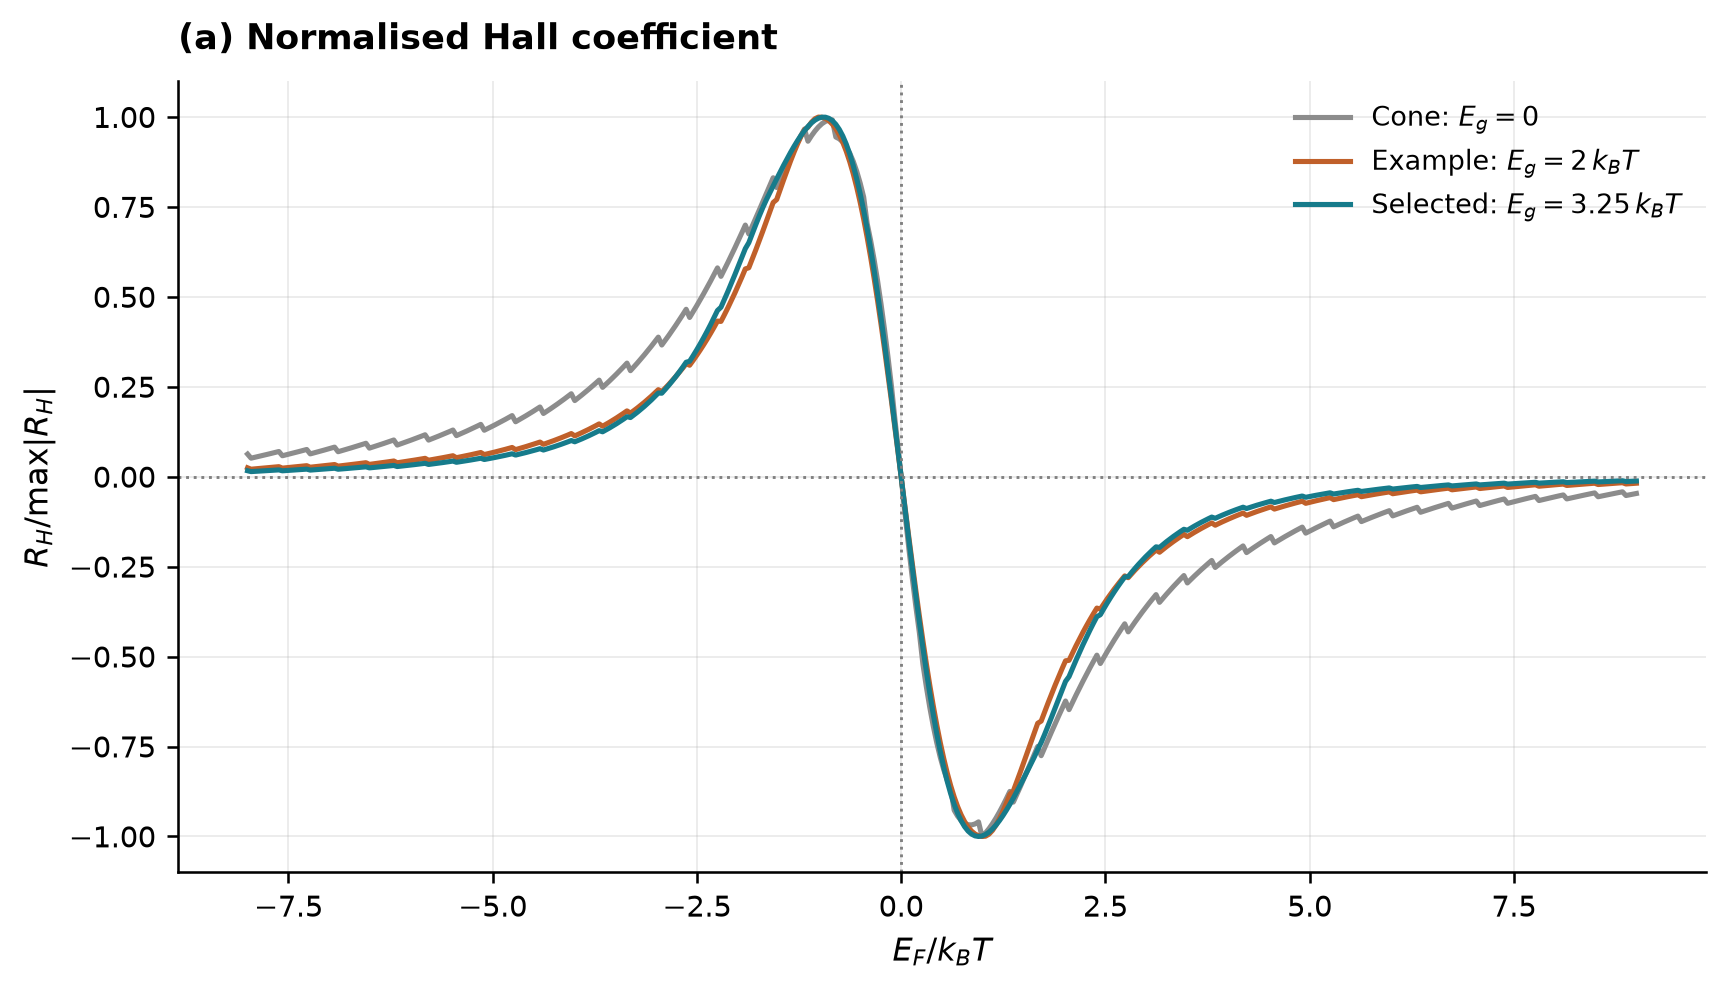
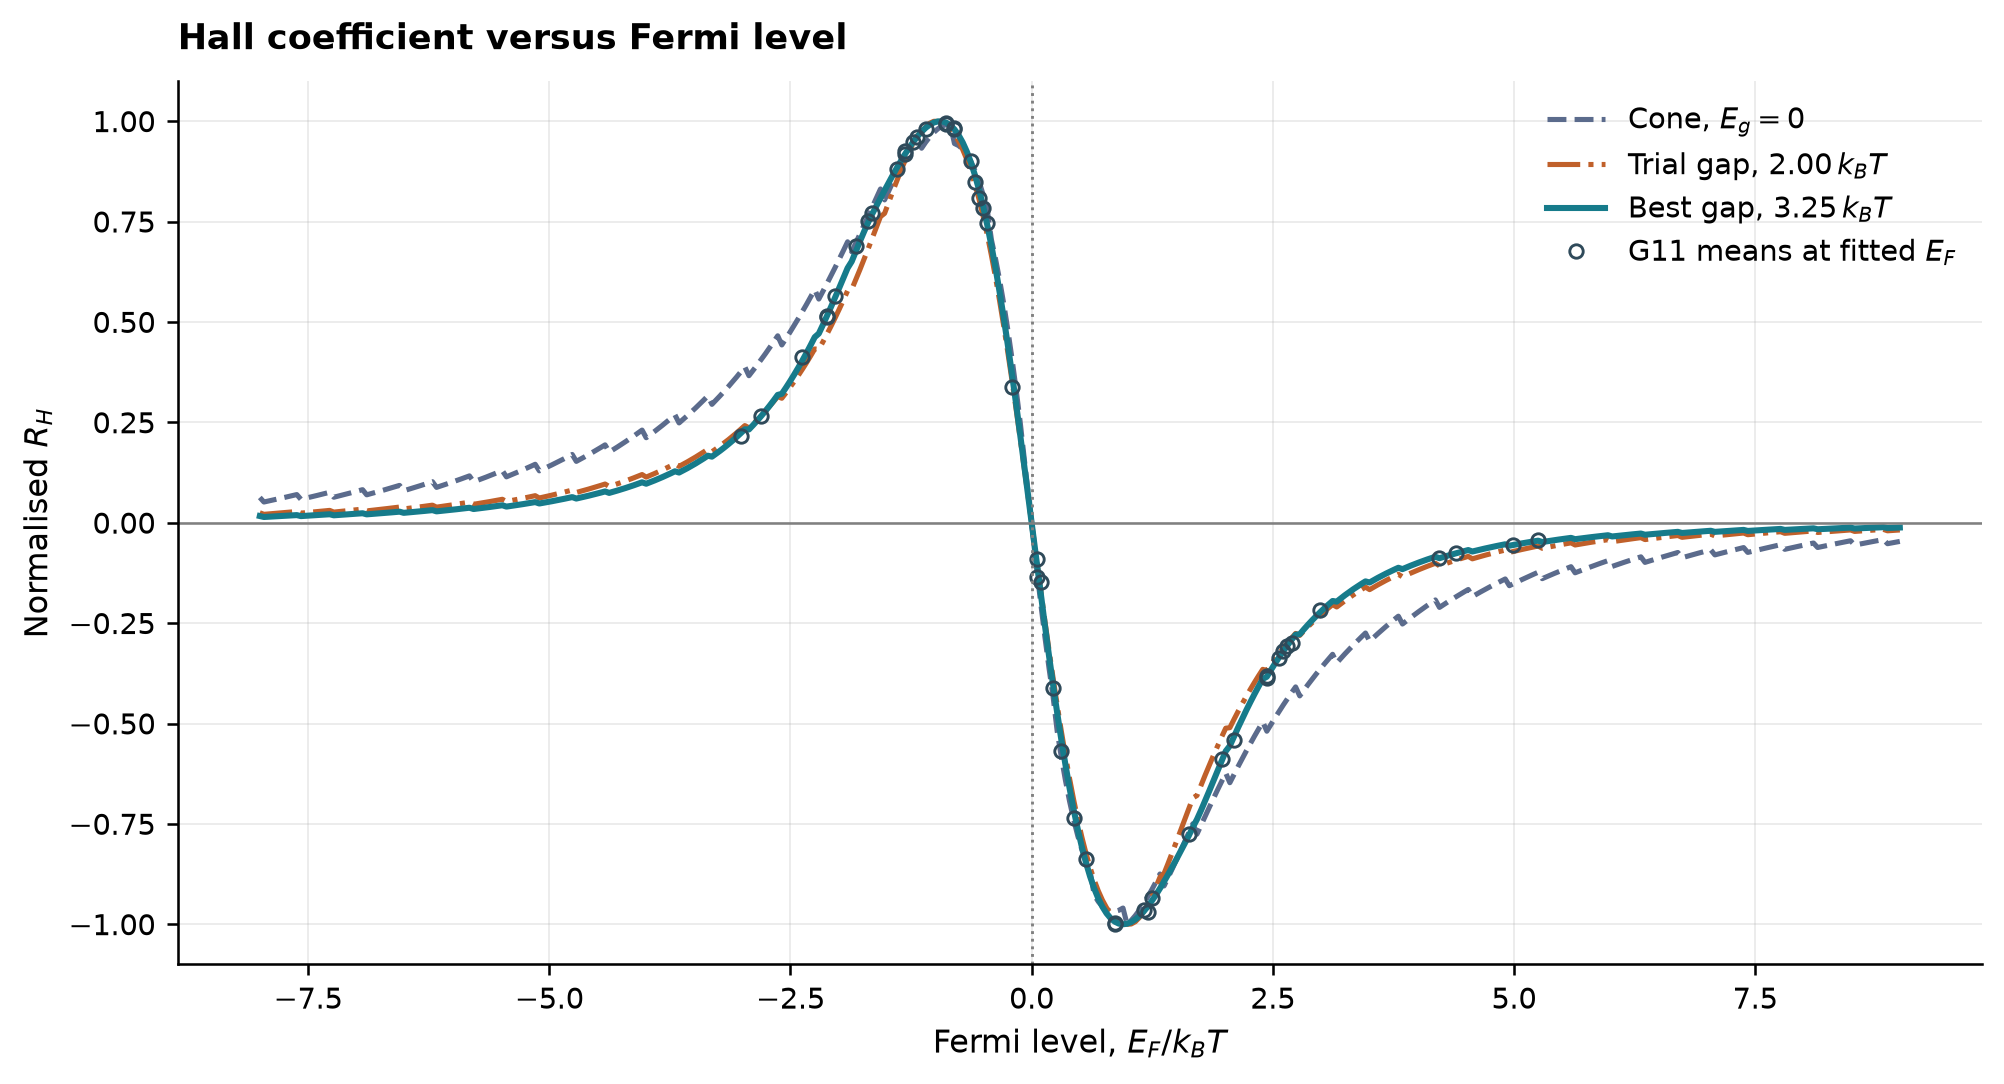
Fig 5/6: add the measured points and report labels; keep Fig 7 axis fix

diff --git a/src/report_figures.py b/src/report_figures.py
@@ -258,20 +258,27 @@ def fig04(d):
 
 def fig05_06(d):
     example = int(np.argmin(abs(d["gaps"] - 2)))
-    for col, name, title, ylabel in [
-            (0, "fig05_report.png", "(a) Normalised Hall coefficient", r"$R_H/\max|R_H|$"),
-            (1, "fig06_report.png", "(b) Normalised sheet resistance", r"$R_{xx}/\max R_{xx}$")]:
-        fig, ax = plt.subplots(figsize=(7.4, 4.2), layout="constrained")
-        for j, lab, colr in [(0, "Cone: $E_g=0$", GREY),
-                             (example, "Example: $E_g=2\\,k_BT$", ORANGE),
-                             (d["chosen"],
-                              f"Selected: $E_g={d['gaps'][d['chosen']]:g}\\,k_BT$", TEAL)]:
-            ax.plot(d["ef_grid"] / d["kT"], d["lib"][j, :, col], color=colr, lw=1.6, label=lab)
+    xy = d["normalise"](d["means"])
+    ef_meas = d["traj"] / d["kT"]
+    best = d["gaps"][d["chosen"]]
+    ylabels = [r"Normalised $R_H$", r"Normalised $R_s$"]
+    for col, name, title in [
+            (0, "fig05_report.png", "Hall coefficient versus Fermi level"),
+            (1, "fig06_report.png", "Sheet resistance versus Fermi level")]:
+        fig, ax = plt.subplots(figsize=(8.6, 4.6), layout="constrained")
+        ax.plot(d["ef_grid"] / d["kT"], d["lib"][0, :, col], "--", color="#5b6b8c",
+                lw=1.6, label=r"Cone, $E_g=0$")
+        ax.plot(d["ef_grid"] / d["kT"], d["lib"][example, :, col], "-.", color=ORANGE,
+                lw=1.6, label=r"Trial gap, $2.00\,k_BT$")
+        ax.plot(d["ef_grid"] / d["kT"], d["lib"][d["chosen"], :, col], "-", color=TEAL,
+                lw=1.9, label=rf"Best gap, ${best:.2f}\,k_BT$")
+        ax.plot(ef_meas, xy[:, col], "o", mfc="none", mec="#2f4a5a", ms=4.2, mew=0.9,
+                label=r"G11 means at fitted $E_F$")
         ax.axvline(0, color="gray", ls=":", lw=0.9)
         if col == 0:
-            ax.axhline(0, color="gray", ls=":", lw=0.9)
-        style(ax, title, r"$E_F / k_B T$", ylabel)
-        ax.legend(fontsize=8.5, frameon=False, loc="best")
+            ax.axhline(0, color="gray", lw=0.8)
+        style(ax, title, r"Fermi level, $E_F/k_BT$", ylabels[col])
+        ax.legend(fontsize=9, frameon=False, loc="upper right")
         save(fig, name)
 
 
